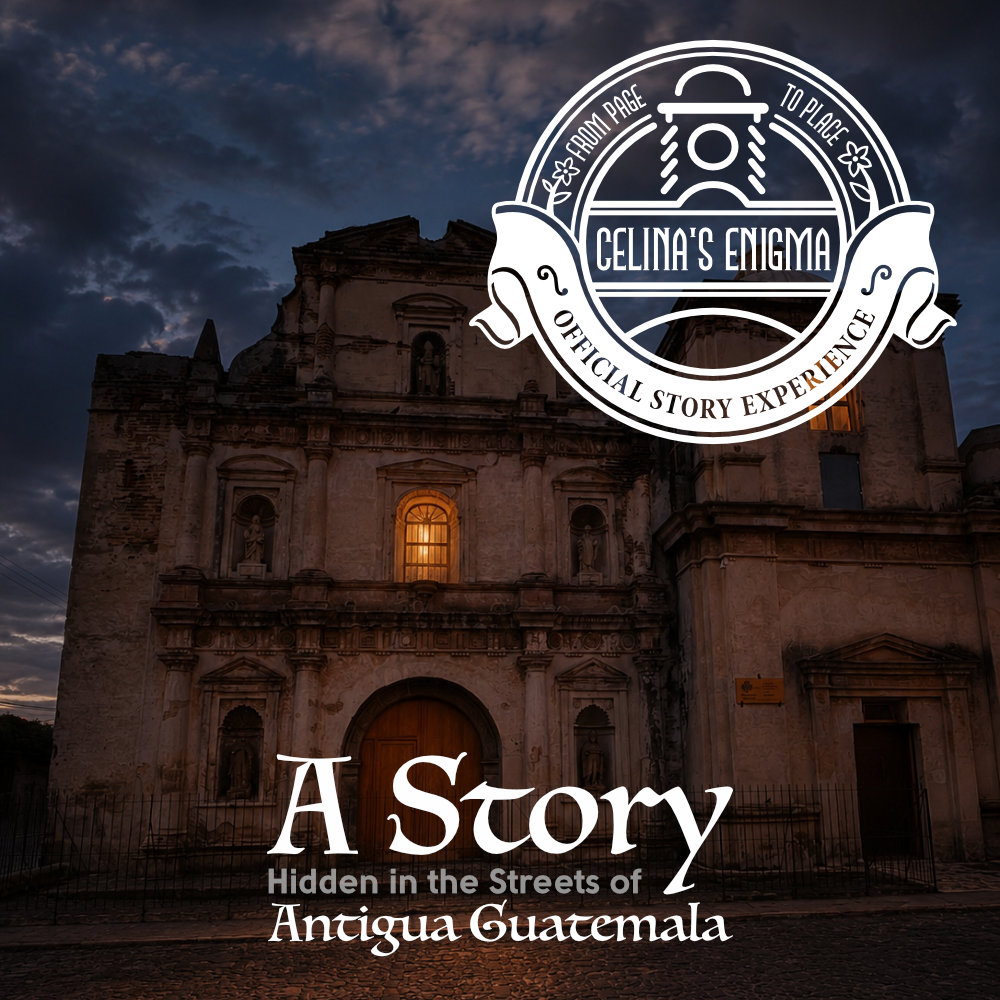
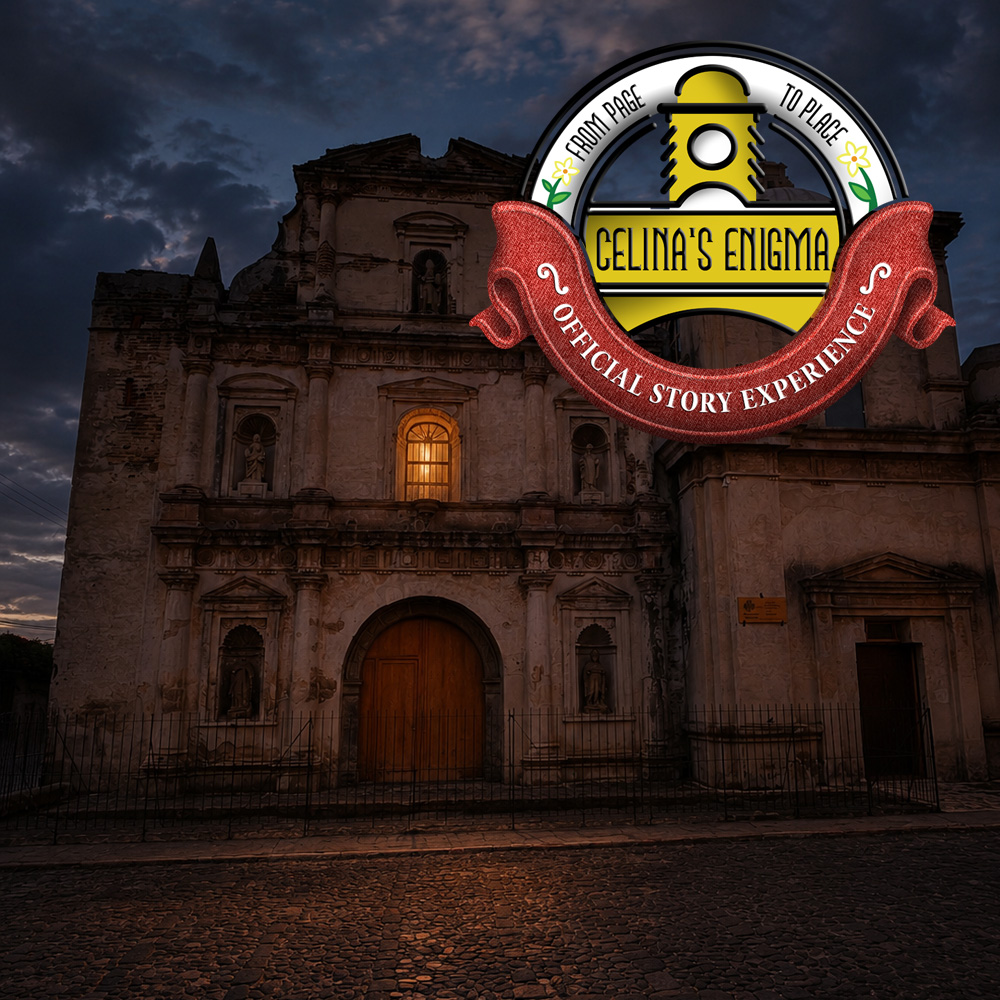
Add Tripadvisor link to all CTAs

diff --git a/src/navigation.ts b/src/navigation.ts
@@ -26,8 +26,8 @@ export const footerData = {
     {
       title: 'Explora',
       links: [
-        { text: 'Inicio', href: getPermalink('/') },
-        { text: 'La Novela', href: getPermalink('/la-novela') },
+        { text: 'Inicio', href: '/' },
+        { text: 'La Novela', href: '/la-novela' },
         { text: 'El Autor', href: getPermalink('/autor') },
         { text: 'Celina’s Enigma', href: getPermalink('/celinas-enigma') },
         { text: 'Extras', href: getPermalink('/unlock') },

diff --git a/src/types.d.ts b/src/types.d.ts
@@ -205,6 +205,7 @@ export interface Stats extends Omit<Headline, 'classes'>, Widget {
 
 export interface Pricing extends Omit<Headline, 'classes'>, Widget {
   prices?: Array<Price>;
+  callToAction?: CallToAction;
 }
 
 export interface Testimonials extends Omit<Headline, 'classes'>, Widget {
